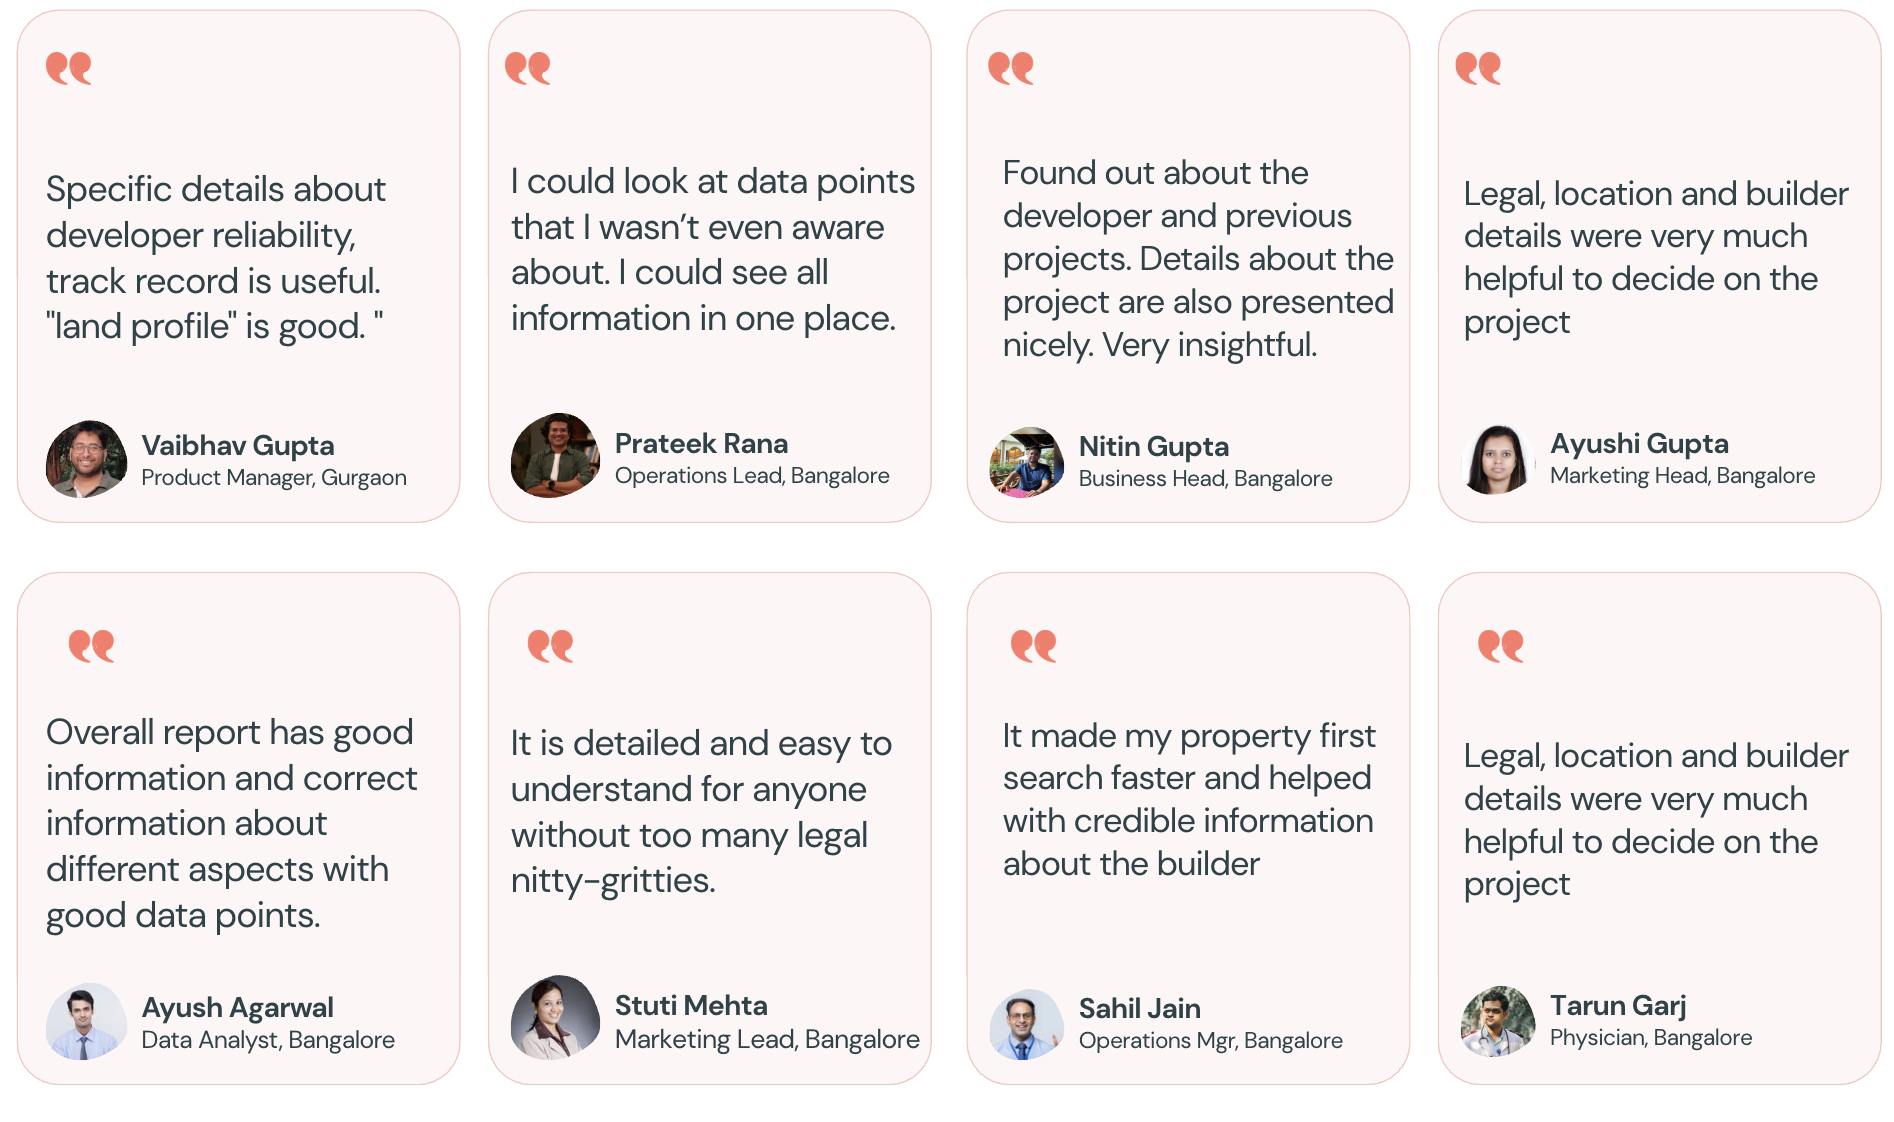
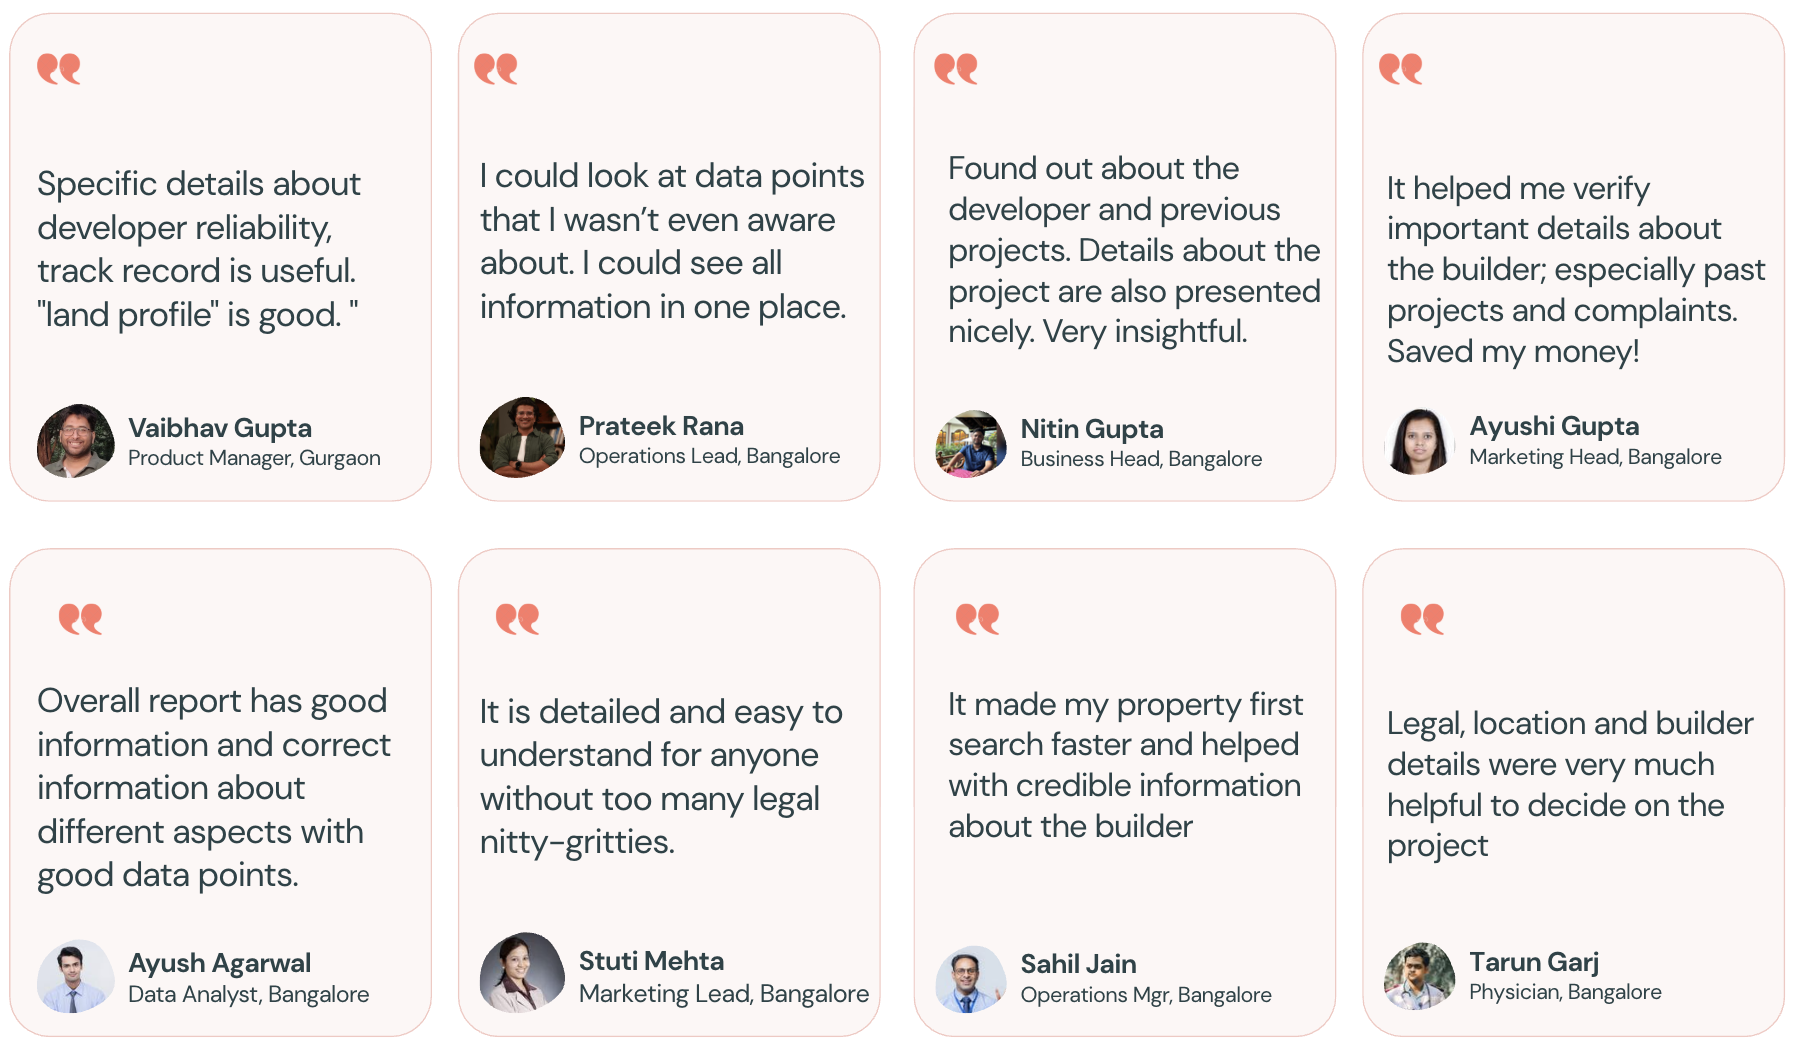
fixing bad landing img

diff --git a/src/custom-pages/landing/brick-chat-v2.tsx b/src/custom-pages/landing/brick-chat-v2.tsx
@@ -1310,7 +1310,7 @@ export default function BrickChatv2({
           primaryImageSize: isMobile ? "100%" : "70%",
           mainImgUrl: isMobile
             ? "/images/landing/brick-chat/testimonial-mob.png"
-            : "/images/landing/brick-chat/testimonial.png",
+            : "/images/landing/brick-chat/testimonial.png?v=2",
           mainImgAltText: "Testimonials from Brickfi Customers",
           imageContainerWidth: 50,
           verticalPadding: isMobile ? 32 : 100,
